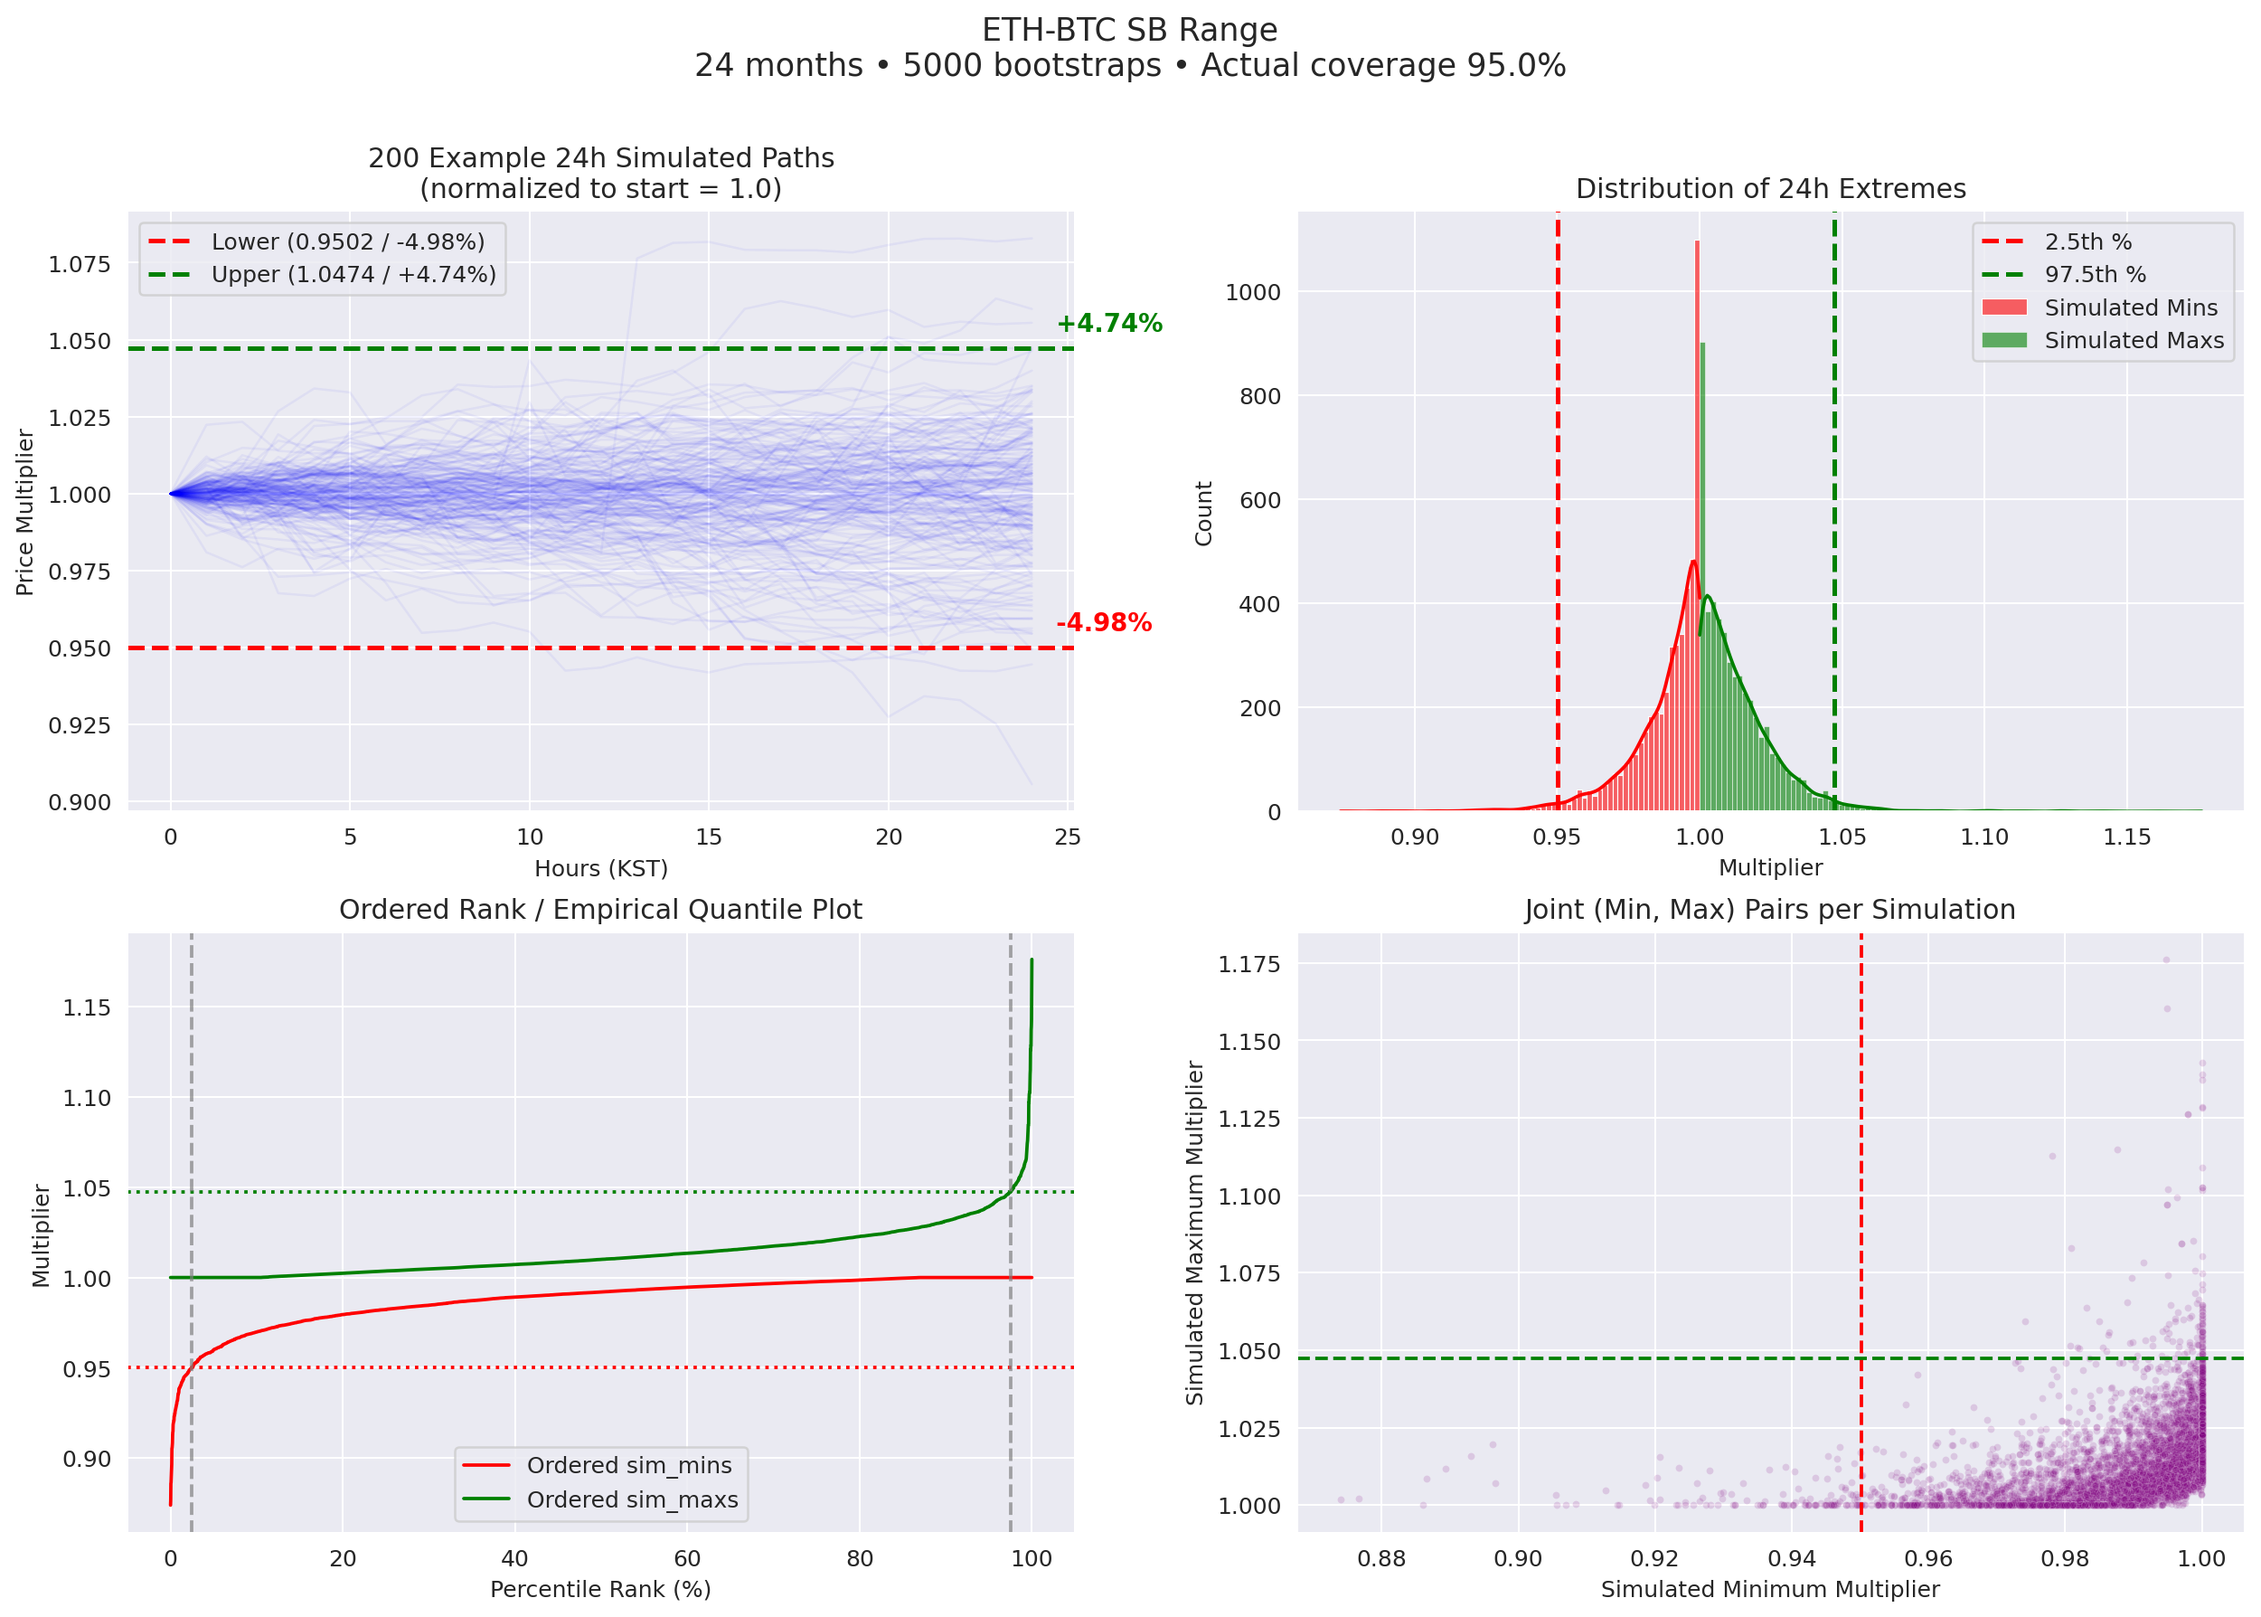
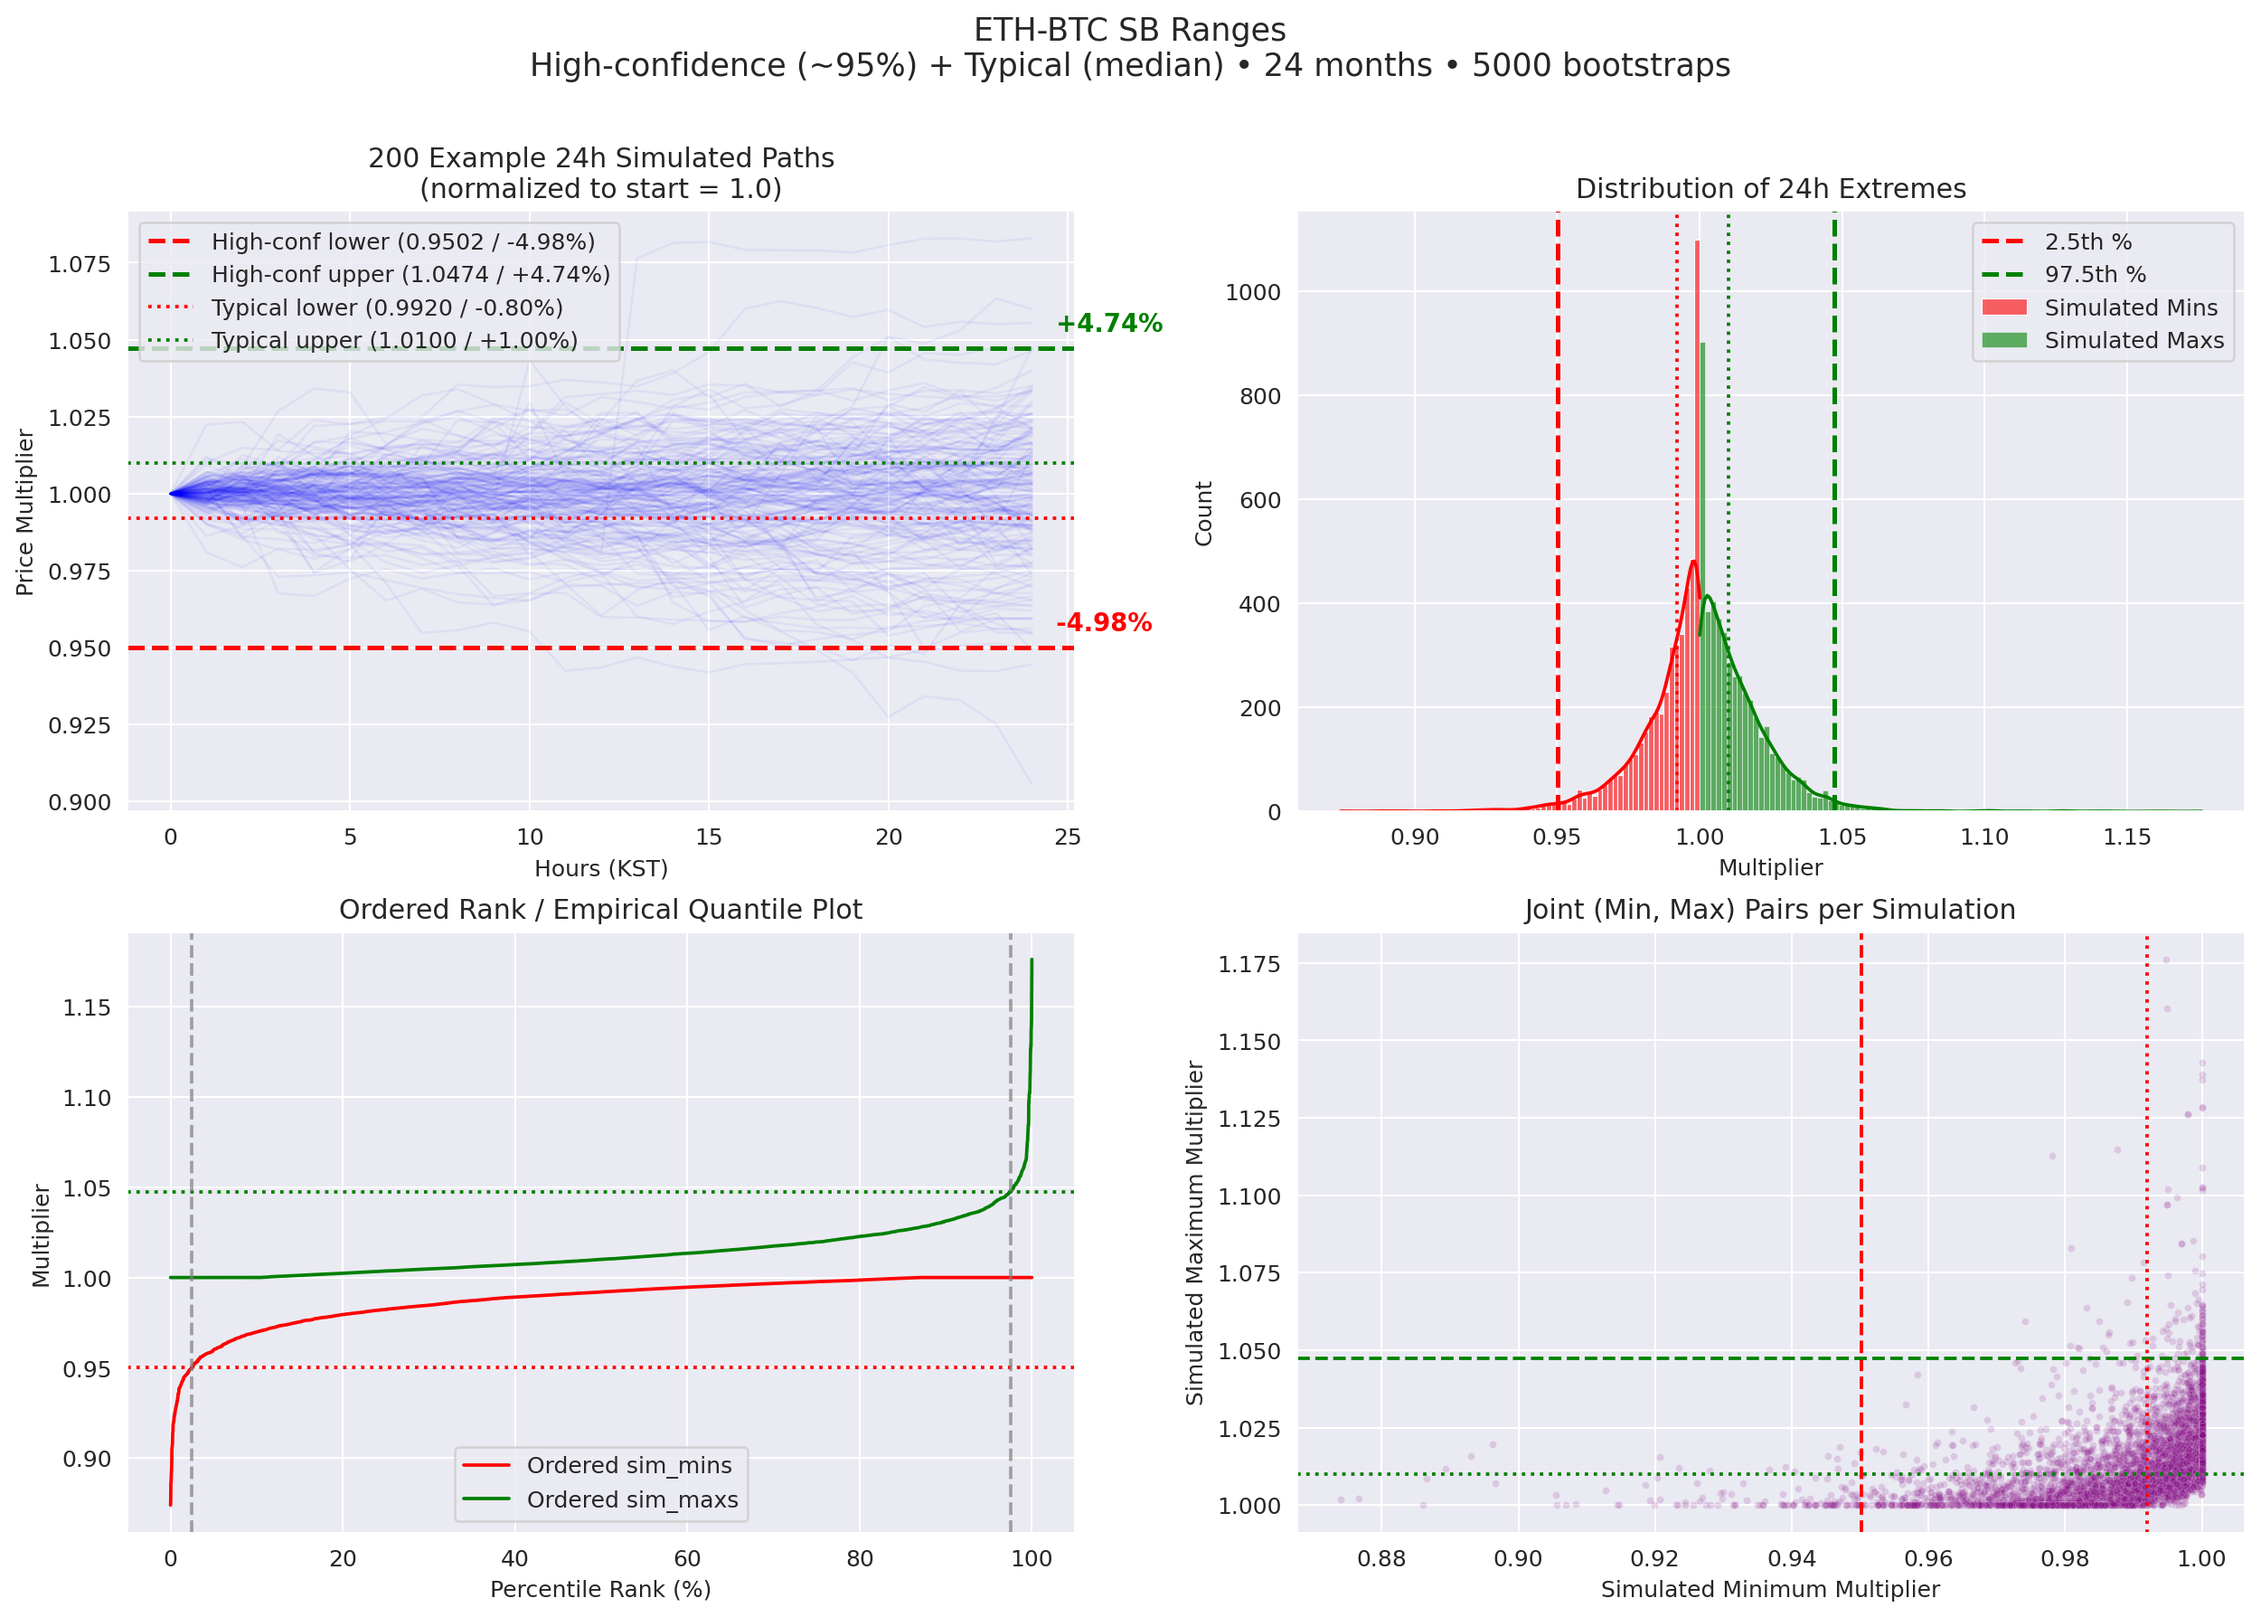
maximum likelihood added

Changed region(s): [[0.2495, 0.0, 0.7485, 0.0615], [0.0936, 0.123, 0.2807, 0.2153]]

diff --git a/src/gecko_price_analysis/sb_tokens.py b/src/gecko_price_analysis/sb_tokens.py
@@ -111,30 +111,52 @@ def main():
         sim_mins.append(path.min())
         sim_maxs.append(path.max())
 
-    # --- Optimal range ---
+    # === BOTH RANGES CALCULATED HERE (zero extra runtime cost) ===
+    # 1. High-confidence coverage (original 2.5%/97.5% logic)
     lower_mult = np.percentile(sim_mins, CONFIG['low_percentile'])
     upper_mult = np.percentile(sim_maxs, CONFIG['high_percentile'])
 
-    # --- Percentage versions for chart labels ---
-    lower_pct = (lower_mult - 1) * 100
-    upper_pct = (upper_mult - 1) * 100
+    # 2. Typical / maximum-likelihood range (asymmetric median — respects natural skew)
+    median_lower = np.median(sim_mins)
+    median_upper = np.median(sim_maxs)
+    # Symmetric ±R for quick reference (median of the maximum deviation per path)
+    median_dev = np.median([max(1 - m, M - 1) for m, M in zip(sim_mins, sim_maxs)])
 
+    # Bonus joint coverage stats
+    actual_coverage = np.mean(
+        (np.array(sim_mins) >= lower_mult) & (np.array(sim_maxs) <= upper_mult)
+    ) * 100
+    typical_coverage = np.mean(
+        (np.array(sim_mins) >= median_lower) & (np.array(sim_maxs) <= median_upper)
+    ) * 100
+
+    # --- Console output with BOTH ranges clearly separated ---
     print("\n" + "="*80)
     print(f"OPTIMAL LIQUIDITY POOL RANGE for {CONFIG['token0'].upper()} per {CONFIG['token1'].upper()}")
     print("="*80)
+
+    # High-confidence block (unchanged meaning, just clearer label)
+    lower_pct = (lower_mult - 1) * 100
+    upper_pct = (upper_mult - 1) * 100
+    print("HIGH-CONFIDENCE COVERAGE (~95% of simulated 24h paths)")
     print(f"Lower multiplier : {lower_mult:.4f}  →  lower = current × {lower_mult:.4f}  ({lower_pct:+.2f}%)")
     print(f"Upper multiplier : {upper_mult:.4f}  →  upper = current × {upper_mult:.4f}  ({upper_pct:+.2f}%)")
     print(f"Range width      : {(upper_mult / lower_mult - 1)*100:.1f}%")
     print(f"Coverage         : ~{100 - CONFIG['low_percentile']*2:.0f}% of simulated 24h paths")
-    print(f"Based on         : {len(historical):,} hourly observations")
+    print(f"Actual paths fully covered: {actual_coverage:.1f}% (joint)")
+
+    # New typical / maximum-likelihood block (asymmetric by design)
+    med_lower_pct = (median_lower - 1) * 100
+    med_upper_pct = (median_upper - 1) * 100
+    print("\nTYPICAL / MAXIMUM-LIKELIHOOD DAILY RANGE (median, asymmetric)")
+    print(f"Lower multiplier : {median_lower:.4f}  →  ({med_lower_pct:+.2f}%)")
+    print(f"Upper multiplier : {median_upper:.4f}  →  ({med_upper_pct:+.2f}%)")
+    print(f"Range width      : {(median_upper / median_lower - 1)*100:.1f}%")
+    print(f"Symmetric ±R     : ±{median_dev*100:.2f}%   (median max-deviation)")
+    print(f"Actual paths fully covered: {typical_coverage:.1f}% (joint)")
+
+    print(f"\nBased on         : {len(historical):,} hourly observations")
     print(f"SB parameters    : {CONFIG['n_boots']} bootstraps, mean block = {CONFIG['mean_block_length']}")
-
-    # --- Actual joint coverage (bonus insight) ---
-    actual_coverage = np.mean(
-        (np.array(sim_mins) >= lower_mult) & (np.array(sim_maxs) <= upper_mult)
-    ) * 100
-    print(f"Actual paths fully covered: {actual_coverage:.1f}% (joint coverage)")
-
     current_price = historical.iloc[-1]
     print(f"Current {CONFIG['token0'].upper()} per {CONFIG['token1'].upper()} price: {current_price:,.4f}")
     print("="*80)
@@ -159,13 +181,19 @@ def main():
             path = np.insert(path, 0, 1.0)
             ax1.plot(range(25), path, color='blue', alpha=0.05, lw=1)
 
-        # Legend (multiplier + percentage)
+        # High-confidence range (solid/dashed as before)
         ax1.axhline(lower_mult, color='red', linestyle='--', lw=2,
-                    label=f'Lower ({lower_mult:.4f} / {lower_pct:+.2f}%)')
+                    label=f'High-conf lower ({lower_mult:.4f} / {lower_pct:+.2f}%)')
         ax1.axhline(upper_mult, color='green', linestyle='--', lw=2,
-                    label=f'Upper ({upper_mult:.4f} / {upper_pct:+.2f}%)')
+                    label=f'High-conf upper ({upper_mult:.4f} / {upper_pct:+.2f}%)')
 
-        # Labels placed slightly ABOVE the lines
+        # NEW: Typical/median range (thinner dotted lines — clearly distinguishable)
+        ax1.axhline(median_lower, color='red', linestyle=':', lw=1.5,
+                    label=f'Typical lower ({median_lower:.4f} / {med_lower_pct:+.2f}%)')
+        ax1.axhline(median_upper, color='green', linestyle=':', lw=1.5,
+                    label=f'Typical upper ({median_upper:.4f} / {med_upper_pct:+.2f}%)')
+
+        # Labels placed slightly ABOVE the high-confidence lines (unchanged)
         offset = 0.0035
         ax1.text(24.2, lower_mult + offset, f'  {lower_pct:+.2f}%',
                  color='red', va='bottom', ha='left', fontsize=11, fontweight='bold')
@@ -175,19 +203,22 @@ def main():
         ax1.set_title('200 Example 24h Simulated Paths\n(normalized to start = 1.0)')
         ax1.set_xlabel('Hours (KST)')
         ax1.set_ylabel('Price Multiplier')
-        ax1.legend()
+        ax1.legend(loc='upper left')   # ← legend now shows all 4 lines clearly
 
-        # 2. Histograms of extremes (unchanged)
+        # 2. Histograms of extremes
         ax2 = plt.subplot(2, 2, 2)
         sns.histplot(sim_mins, kde=True, color='red', alpha=0.6, label='Simulated Mins', ax=ax2)
         sns.histplot(sim_maxs, kde=True, color='green', alpha=0.6, label='Simulated Maxs', ax=ax2)
         ax2.axvline(lower_mult, color='red', linestyle='--', lw=2, label=f'{CONFIG["low_percentile"]}th %')
         ax2.axvline(upper_mult, color='green', linestyle='--', lw=2, label=f'{CONFIG["high_percentile"]}th %')
+        # NEW: Typical median lines on histogram
+        ax2.axvline(median_lower, color='red', linestyle=':', lw=1.5)
+        ax2.axvline(median_upper, color='green', linestyle=':', lw=1.5)
         ax2.set_title('Distribution of 24h Extremes')
         ax2.set_xlabel('Multiplier')
         ax2.legend()
 
-        # 3. Ordered rank / quantile plot (unchanged)
+        # 3. Ordered rank / quantile plot
         ax3 = plt.subplot(2, 2, 3)
         sorted_mins = np.sort(sim_mins)
         sorted_maxs = np.sort(sim_maxs)
@@ -203,23 +234,26 @@ def main():
         ax3.set_ylabel('Multiplier')
         ax3.legend()
 
-        # 4. Joint distribution (unchanged)
+        # 4. Joint distribution
         ax4 = plt.subplot(2, 2, 4)
         sns.scatterplot(x=sim_mins, y=sim_maxs, alpha=0.15, s=10, color='purple', ax=ax4)
         ax4.axvline(lower_mult, color='red', linestyle='--')
         ax4.axhline(upper_mult, color='green', linestyle='--')
+        # NEW: Typical median lines on joint scatter
+        ax4.axvline(median_lower, color='red', linestyle=':', lw=1.5)
+        ax4.axhline(median_upper, color='green', linestyle=':', lw=1.5)
         ax4.set_title('Joint (Min, Max) Pairs per Simulation')
         ax4.set_xlabel('Simulated Minimum Multiplier')
         ax4.set_ylabel('Simulated Maximum Multiplier')
 
-        # FINAL LAYOUT — main title now sits higher with extra breathing room
+        # FINAL LAYOUT
         plt.tight_layout()
-        plt.subplots_adjust(top=0.87)   # ← UPDATED: more top margin for extra space above suptitle
+        plt.subplots_adjust(top=0.87)
 
         plt.suptitle(
-            f"{CONFIG['token0'].upper()}-{CONFIG['token1'].upper()} SB Range\n"
-            f"{CONFIG['n_months']} months • {CONFIG['n_boots']} bootstraps • "
-            f"Actual coverage {actual_coverage:.1f}%",
+            f"{CONFIG['token0'].upper()}-{CONFIG['token1'].upper()} SB Ranges\n"
+            f"High-confidence (~95%) + Typical (median) • "
+            f"{CONFIG['n_months']} months • {CONFIG['n_boots']} bootstraps",
             fontsize=14, y=0.99
         )
 
